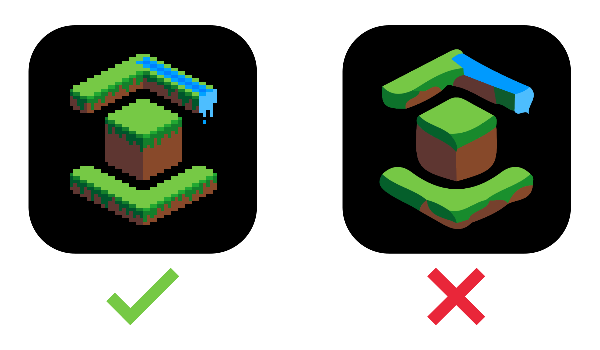
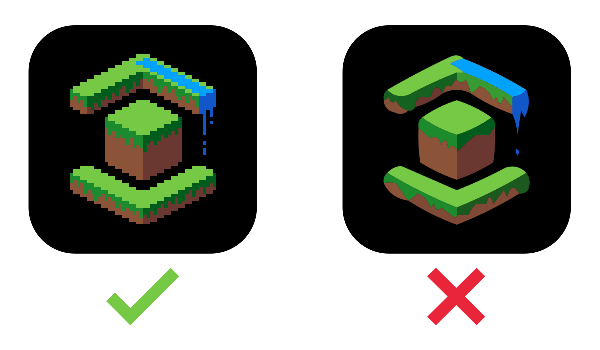
update branding and branding guidelines

Changed region(s): [[0.63, 0.1429, 0.9, 0.6571], [0.12, 0.1714, 0.36, 0.5143], [0.09, 0.4857, 0.36, 0.6571]]

diff --git a/.vitepress/meta.ts b/.vitepress/meta.ts
@@ -1,6 +1,6 @@
 const DESCRIPTION = "The official site with documentation and guides related to Faithful.";
 const BANNER_URL =
-	"https://database.faithfulpack.net/images/branding/site/banners/universal_banner.png";
+	"https://database.faithfulpack.net/images/branding/social_media/banners/universal_banner.png";
 
 export default [
 	// html meta tags
@@ -8,7 +8,7 @@ export default [
 		"link",
 		{
 			rel: "icon",
-			href: "https://raw.githubusercontent.com/Faithful-Resource-Pack/Branding/main/site/favicon.ico",
+			href: "https://database.faithfulpack.net/images/branding/logos/favicon.ico",
 		},
 	],
 	[

diff --git a/.vitepress/config.ts b/.vitepress/config.ts
@@ -22,7 +22,7 @@ export default () => {
 			],
 		],
 		themeConfig: {
-			logo: "https://raw.githubusercontent.com/Faithful-Resource-Pack/Branding/main/site/favicon.ico",
+			logo: "https://raw.githubusercontent.com/Faithful-Resource-Pack/Branding/main/logos/transparent/hd/main_logo.png",
 			nav: [
 				{ text: "Home", link: "/" },
 				// don't put all archived/deprecated categories in navbar

diff --git a/pages/manuals/branding-guidelines.md b/pages/manuals/branding-guidelines.md
@@ -7,7 +7,7 @@ date: "2023-09-13"
 # Faithful Branding Guidelines
 ### A non-exhaustive handbook to use our branding effectively.
 
-*Faithful is a community project that's not meant to be taken too seriously. Our branding, however, was made with certain goals in mind – so if you're into this sort of thing and want to represent Faithful properly, we'll be extra grateful if you follow these guidelines.*
+*Faithful is a community project that's not meant to be taken too seriously. Our branding, however, was made with certain goals in mind. If you're into this sort of thing and want to represent Faithful properly, we'll be extra grateful if you follow these guidelines.*
 
 *Do remember that [our license](https://faithfulpack.net/license) still applies when using our branding. This means that you cannot use our branding with the intent to confuse users into believing an unofficial project is official.*
 
@@ -45,6 +45,16 @@ For specific projects, use (division) Faithful (resolution)x (style) as the form
 - faithfull
 :::
 
+There are also abbreviations for each project, although it's not recommended to use in user-facing UI since they can be hard to understand:
+
+::: details Common Project Abbreviations
+- Faithful 32x: F32
+- Faithful 64x: F64
+- Classic Faithful 32x: CF32
+- Classic Faithful 64x Jappa: CF64J
+- Classic Faithful (the whole project): CF
+:::
+
 ## Part 2: Logos
 
 *[View all our logos here](https://github.com/Faithful-Resource-Pack/Branding/tree/main/logos)*
@@ -56,7 +66,7 @@ For most general-purpose applications, use our plain logo. This logo additionall
 <img src="/images/manuals/branding-guidelines/main_logos.png">
 <i class="center">Left: Plain logo. Right: Classic Faithful plain logo.</i>
 
-If you only want to refer to one project, such as in a card, use that project's respective logo. The Classic Faithful logos have different margins to the regular Faithful logo, so bear that in mind when adjusting sizes.
+If you only want to refer to one project, such as in a card, use that project's respective logo.
 
 <img src="/images/manuals/branding-guidelines/all_logos.png" class="center">
 
@@ -74,27 +84,13 @@ Finally, our logos should always be centered based on their main hexagonal part.
 <img src="/images/manuals/branding-guidelines/centering.png" class="center">
 <i class="center">Left: Correctly centered Faithful 32x logo. Right: An example of incorrect centering; Note that the logo on the right has been centered based on the whole image, and not just the hexagonal part.</i>
 
-## Part 3: Logotexts
-
-*[View all our logotexts here](https://github.com/Faithful-Resource-Pack/Branding/tree/main/logotexts)*
-
-Logotexts were designed for users to be able to use a logo and a wordmark at the same time without having a clash in resolution. Each logo has a corresponding logotext and this can be used if the Faithful name is not already well established.
-
-<img src="https://database.faithfulpack.net/images/branding/logotexts/plain_logotext.png" class="center">
-<i class="center">The Faithful logotext.</i>
-
-Always make sure to put logotexts on plain or low-contrast backgrounds — readability can be negatively impacted with noisy backgrounds. Please also note that the text and the logo that make up the logotexts are inseparable, so don't use the pixel art text by itself.
-
-<img src="/images/manuals/branding-guidelines/logotext_comparison.png" class="center">
-<i class="center">Top: Correct placement of a logotext that ensures it's easily readable. Bottom: Poorly placed logotext.</i>
-
-## Part 4: Wordmarks
+## Part 3: Wordmarks
 
 *[View all our wordmarks here](https://github.com/Faithful-Resource-Pack/Branding/tree/main/wordmarks)*
 
 Wordmarks tend to be pretty big and bold, so use them sparingly for large banners and other big areas. They're usually the preferred branding when placed over busy backgrounds such as screenshots.
 
-<img src="https://database.faithfulpack.net/images/branding/social%20media/banners/universal_banner.png" class="center">
+<img src="https://database.faithfulpack.net/images/branding/social_media/banners/universal_banner.png" class="center">
 <i class="center">The Faithful banner.</i>
 
 The plain Faithful wordmark is preferred for most purposes, but specific projects also have their own wordmarks, similarly to the project logos.
@@ -104,23 +100,23 @@ In addition, both cracked, flat, and outlined versions exist. As a rule of thumb
 <img src="/images/manuals/branding-guidelines/wordmarks.png" class="center">
 <i class="center">Each Faithful wordmark variation.</i>
 
-Wordmarks don't tend to scale well, so refrain from using them in small spaces — consider using the logo or simply typing out the name when space is limited.
+Wordmarks don't tend to scale well, so refrain from using them in small spaces—consider using the logo or simply typing out the name when space is limited.
 
 <img src="/images/manuals/branding-guidelines/bad_wordmark_scaling.png" class="center">
 <i class="center">An example of a wordmark not scaling well.</i>
 
-However, don't mix logos and wordmarks, since that's what the logotexts are for. The reasoning is because the pixelated logos don't mix well with the high-resolution wordmarks.
+Most importantly, don't mix logos and wordmarks, since the pixelated logos don't mix well with the high-resolution wordmarks. Instead, only use one or the other—write out the name elsewhere if you're using the logo, or completely remove the logo and only use the wordmark.
 
-<img src="/images/manuals/branding-guidelines/wordmark_vs_logotext.png" class="center">
-<i class="center">A logo next to a wordmark. A logotext is much better suited for this situation.</i>
+<img src="/images/manuals/branding-guidelines/combining_elements.png" class="center">
+<i class="center">A logo next to a wordmark.</i>
 
-## Part 5: Typography
+## Part 4: Typography
 
 *[Download the Faithful fonts here](https://github.com/Faithful-Resource-Pack/Branding/tree/main/font)*
 
 The Faithful font should be used for titles and headings, while any neutral sans-serif is preferred for body text. This is primarily because the individual pixels in the Faithful font blur together, hindering legibility at small scales.
 
-The individual pixels on a logotext also tend to blend at small resolutions so you're usually better off just typing the name out in a regular font.
+Since wordmarks don't scale very well, at small resolutions you're usually better off just typing the name out in a regular font.
 
 <img src="/images/manuals/branding-guidelines/bad_font.png" class="center">
 <i class="center">Left: Good diversity in font sizing. Right: Blends together from the uniform size and font.</i>
@@ -130,13 +126,11 @@ The semibold Faithful font should be used for large headings and the regular Fai
 <img src="/images/manuals/branding-guidelines/font_scaling.png" class="center">
 <i class="center">Each font weight and where it should be used.</i>
 
-## Part 6: Scaling
+## Part 5: Scaling
 
-In general, the hierarchy of branding elements to be used should be as following (from largest to smallest space available):
+In general, the hierarchy of branding elements to be used should be (from largest to smallest space available) wordmarks, then logos, then regular text.
 
-### Wordmark → Logotext → Logo → Text
-
-Always leave padding around the edges of any logo, logotext, and wordmark. Specific ratios don't really matter as long as the padding is even on all sides and the respective branding doesn't appear too large.
+Always leave padding around the edges of any logo and wordmark. Specific ratios don't really matter as long as the padding is even on all sides and the respective branding doesn't appear too large.
 
 <img src="/images/manuals/branding-guidelines/padding.png" class="center">
 <i class="center">Left: Correct padding and scaling of the logo. Right: Incorrect padding and sizing.</i>
@@ -146,7 +140,7 @@ Don't distort our branding to fit in a given space. Instead try using another su
 <img src="/images/manuals/branding-guidelines/distortion.png" class="center">
 <i class="center">Do not.</i>
 
-## Part 7: Colors and Backgrounds
+## Part 6: Colors and Backgrounds
 
 Faithful has a fairly limited color palette used throughout most of the branding, and a set of background images to complement them.
 
@@ -160,11 +154,11 @@ Each pack additionally has a unique color and background screenshot assigned to 
 <img src="/images/manuals/branding-guidelines/colors.png" class="center">
 <i class="center">All Faithful project colors with their respective images.</i>
 
-A background image works well with a wordmark, decently with a logo, and not very well with a logotext. This placement hierarchy should be used to determine an element to go on top of a background image. If you absolutely have to use a logo or a logotext on a background image, it is recommended to add a drop shadow and/or blur the background.
+A background image works well with a wordmark, decently with a logo, and not as well with written text. This placement hierarchy should be used to determine an element to go on top of a background image. If you absolutely have to use a logo or text on a background image, it is recommended to add a drop shadow and/or blur the background.
 
 ## Conclusion
 
-These guidelines probably look very different to your standard 50-page corporate brand guidelines with every single use case laid out, and that's because at the end of the day, as long as you're getting your point across and aren't confusing anyone, it's probably fine. We aren't fussed if your padding is a few pixels off, or if you're using the wrong font size — just don't be horribly inconsistent with everything else and that's about it.
+These guidelines probably look very different to your standard 50-page corporate brand guidelines with every single use case laid out, and that's because at the end of the day, as long as you're getting your point across and aren't confusing anyone, it's probably fine. We aren't fussed if your padding is a few pixels off, or if you're using the wrong font size—just don't be horribly inconsistent with everything else and that's about it.
 
 As with all our docs, if you have any suggestions leave them on our [Discord server](https://discord.gg/sN9YRQbBv7). Good luck with whatever you're doing!
 

diff --git a/README.md b/README.md
@@ -1,4 +1,10 @@
-<a href="https://docs.faithfulpack.net/" target="_blank"><img src="https://github.com/Faithful-Resource-Pack/Branding/blob/main/logos/transparent/256/plain_logo.png?raw=true" alt="Faithful Logo" align="right"></a>
+<a href="https://docs.faithfulpack.net/" target="_blank">
+  <img
+    src="https://database.faithfulpack.net/images/branding/logos/transparent/hd/main_logo.png?w=256"
+    alt="Faithful Logo"
+    align="right"
+  >
+</a>
 <div align="center">
   <h1>Faithful Docs</h1>
   <h3>The official site with documentation and guides related to Faithful.</h3>

diff --git a/index.md b/index.md
@@ -5,6 +5,6 @@ hero:
   name: Welcome to the <span class="colorful">Faithful Docs</span>
   tagline: Documentation and guides related to the Faithful Project for texture making, moderation, and more.
   image:
-    src: https://database.faithfulpack.net/images/branding/logos/transparent/512/plain_logo.png
+    src: https://database.faithfulpack.net/images/branding/logos/transparent/hd/plain_logo.png
     alt: Faithful Logo
 ---
